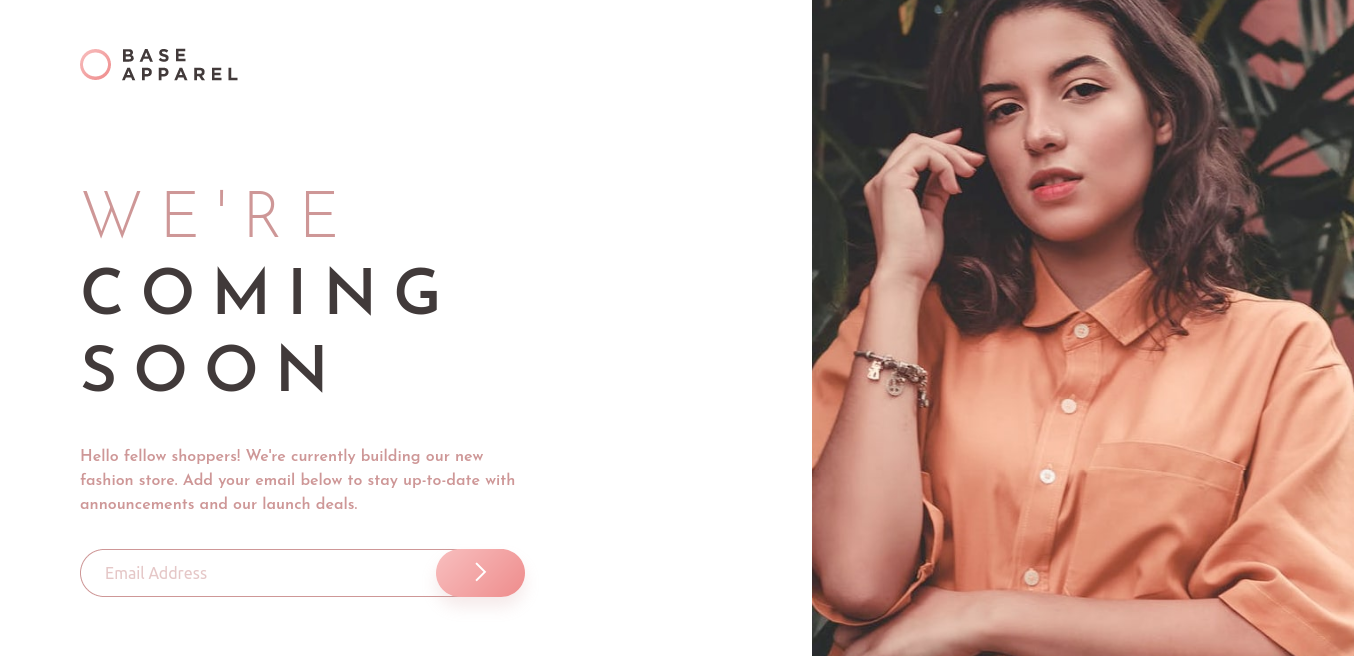
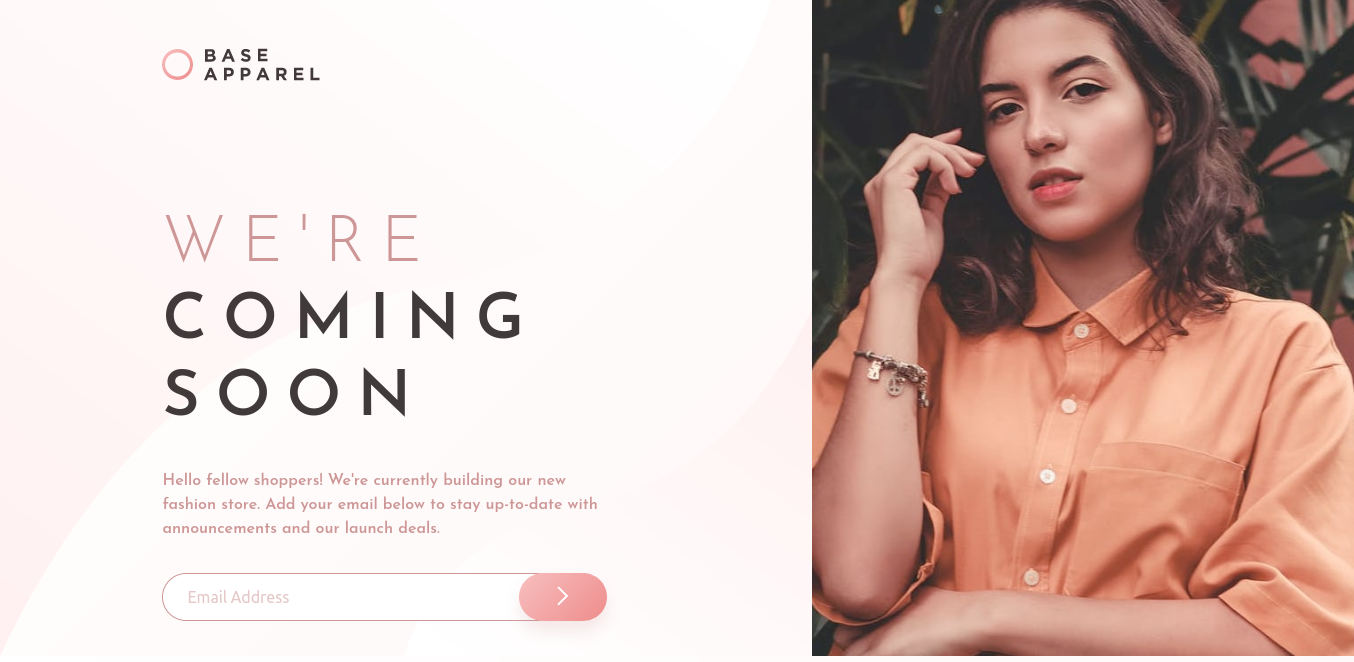
Change image

diff --git a/style.css b/style.css
@@ -5,6 +5,7 @@
 }
 body {
   font-family: "Josefin Sans", sans-serif;
+  background: linear-gradient(135deg, hsl(0, 0%, 100%), hsl(0, 100%, 98%));
 }
 
 .root {
@@ -21,12 +22,33 @@ body {
       "three two";
   }
 }
+.image-back {
+  display: none;
+}
+@media (min-width: 968px) {
+  .image-back {
+    display: initial;
+    grid-area: one;
+    position: absolute;
+    background-position: center;
+    z-index: -1;
+    width: 60%;
+    height: 100%;
+  }
+}
+
 /* Header */
 .header {
   padding: 2rem;
   height: auto;
 }
-
+@media (min-width: 968px) {
+  .header {
+    grid-area: one;
+    padding: 3rem 0 0 0;
+    margin: 0 20%;
+  }
+}
 /* Figure Image */
 .container-image > img {
   width: 100%;
@@ -40,6 +62,9 @@ body {
 }
 
 @media (min-width: 968px) {
+  .container-image {
+    grid-area: two;
+  }
   .image__desktop {
     display: initial;
     height: 100%;
@@ -52,15 +77,7 @@ body {
 .welcome {
   padding: 3rem 2rem;
 }
-@media (min-width: 968px) {
-  .header {
-    grid-area: one;
-    padding: 3rem 0 0 5rem;
-  }
-  .container-image {
-    grid-area: two;
-  }
-}
+
 /* Welcome Container Texto */
 .welcome__cont-txt {
   text-align: center;
@@ -83,7 +100,8 @@ body {
 @media (min-width: 968px) {
   .welcome {
     grid-area: three;
-    padding: 6rem 0 0 5rem;
+    padding: 7.5rem 0 0 0;
+    margin: 0 20%;
   }
   .welcome__cont-txt {
     width: 443px;

diff --git a/index.html b/index.html
@@ -19,6 +19,11 @@
   </head>
   <body>
     <section class="root" role="main">
+      <img
+        class="image-back"
+        src="./images/bg-pattern-desktop.svg"
+        alt="background"
+      />
       <!-- Header -->
       <header class="header" role="header">
         <img src="./images/logo.svg" alt="logo" />
